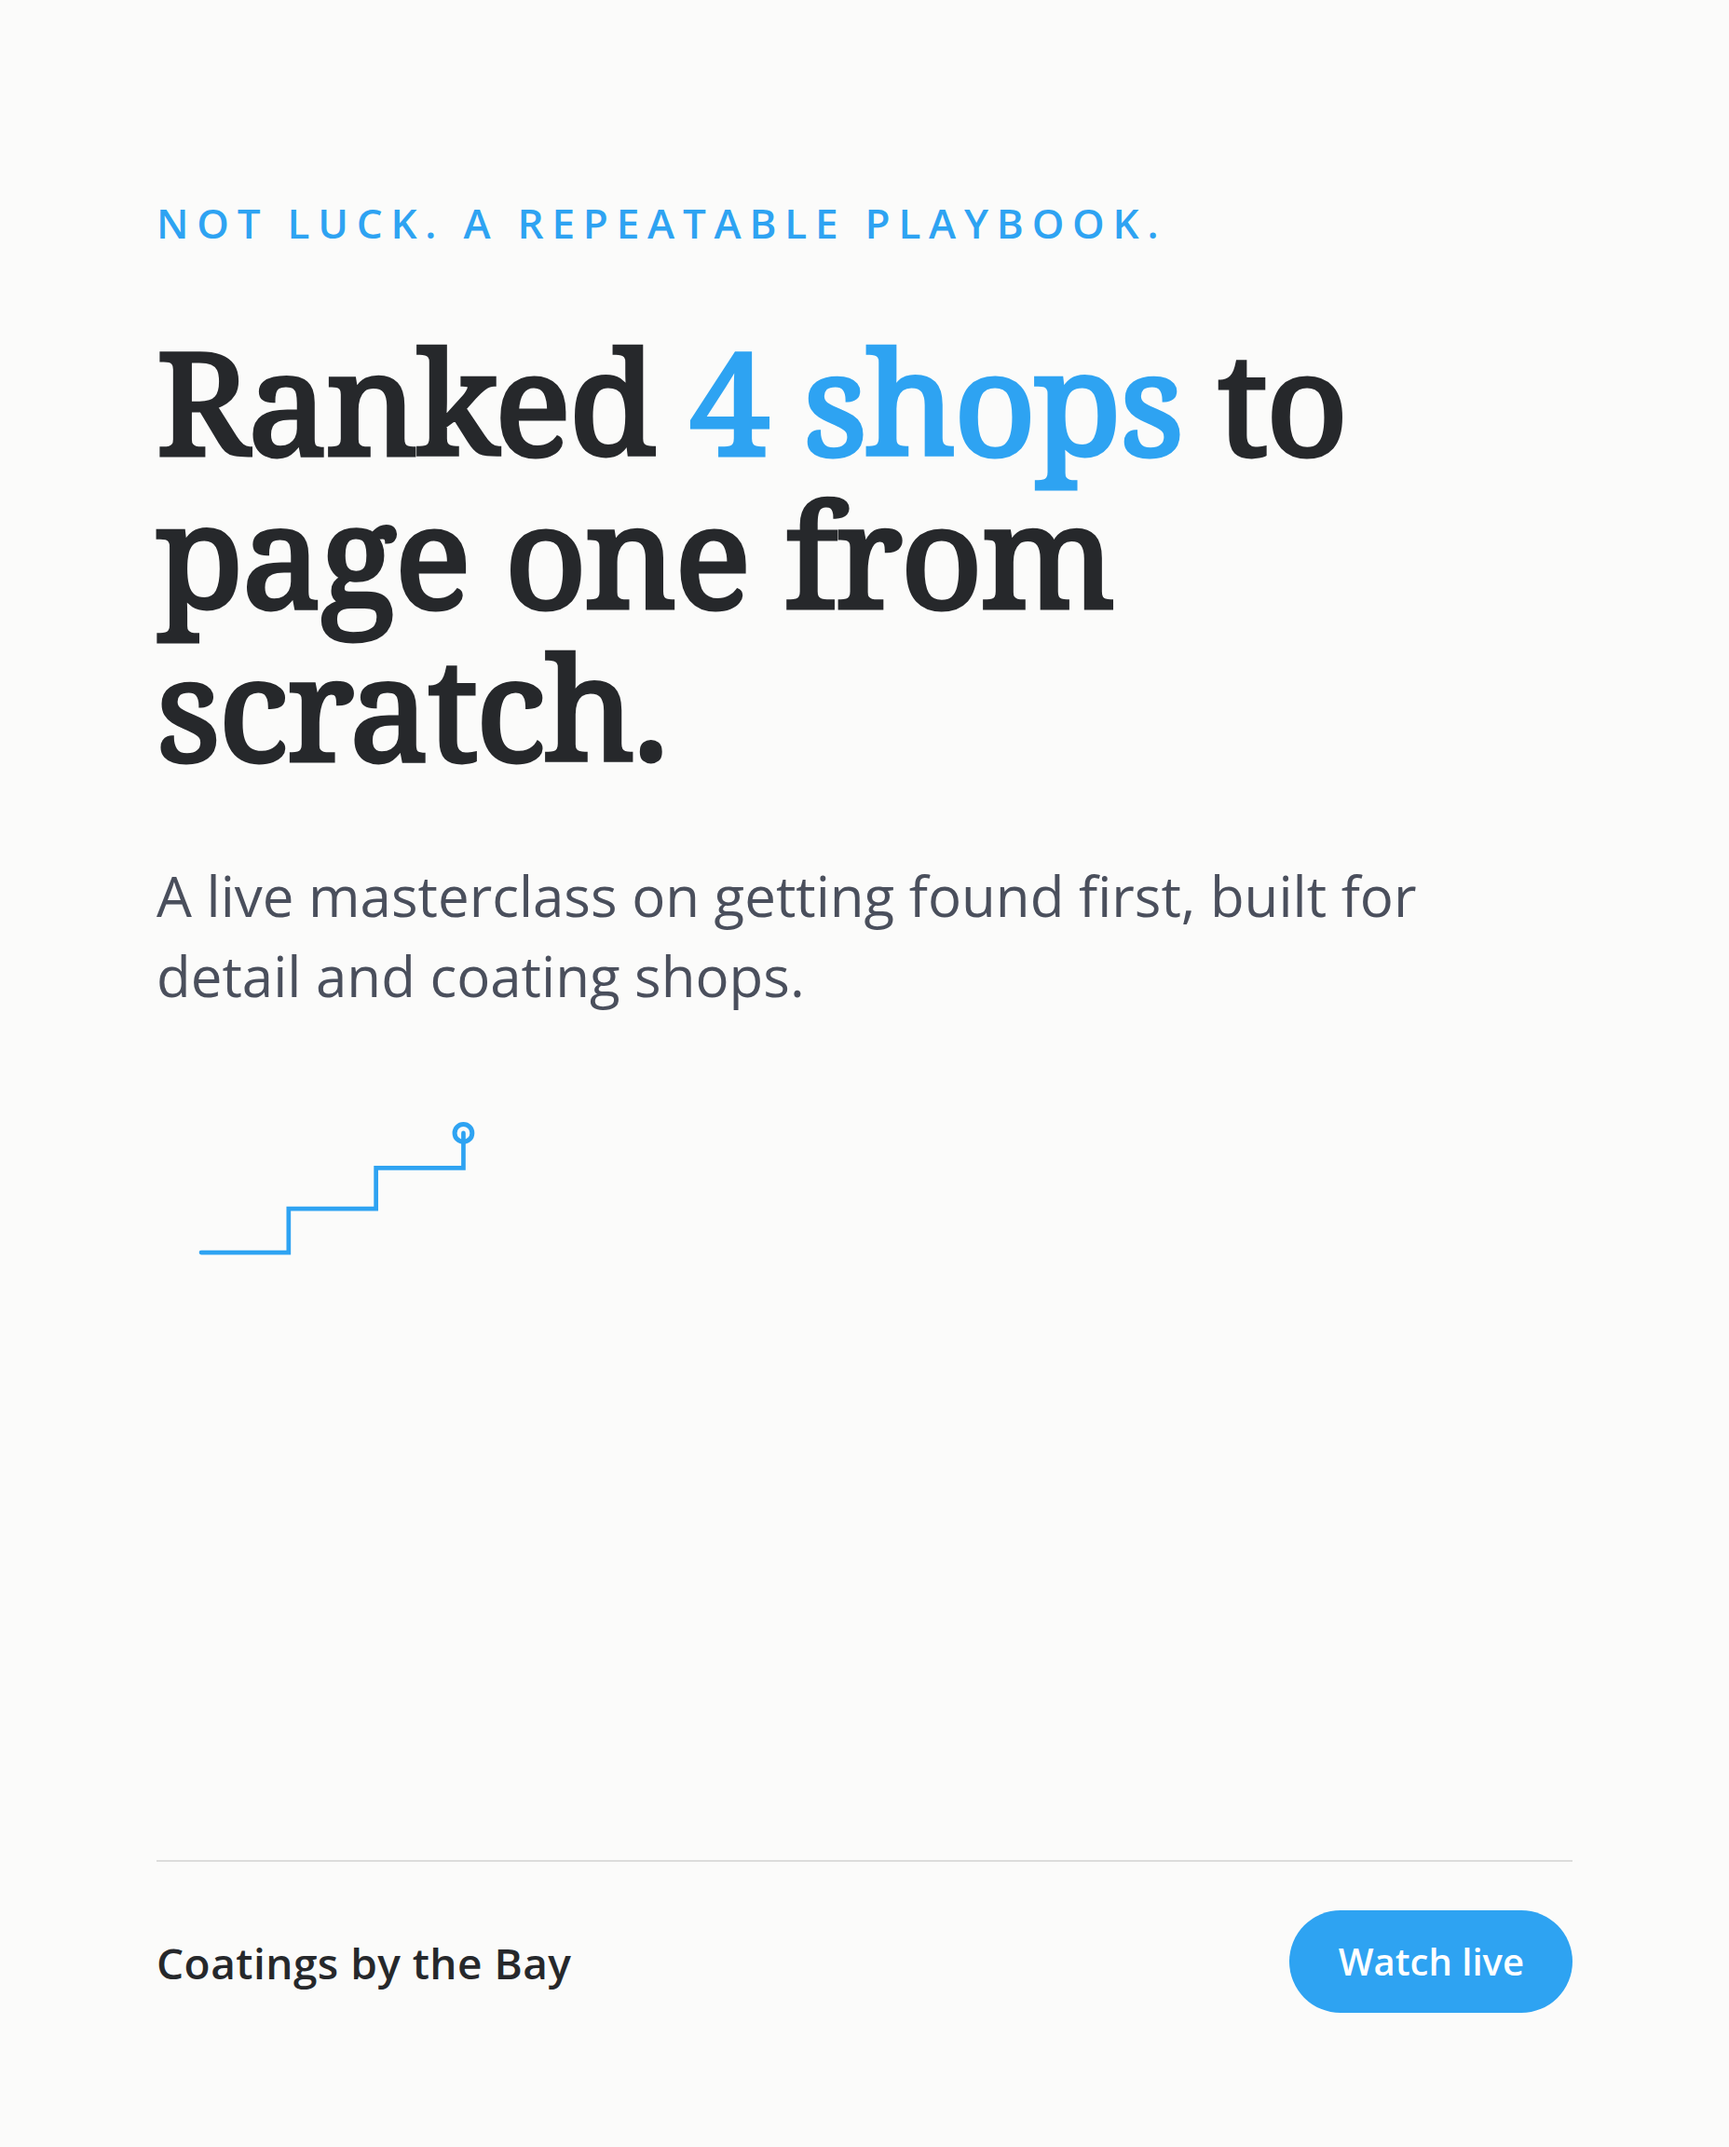
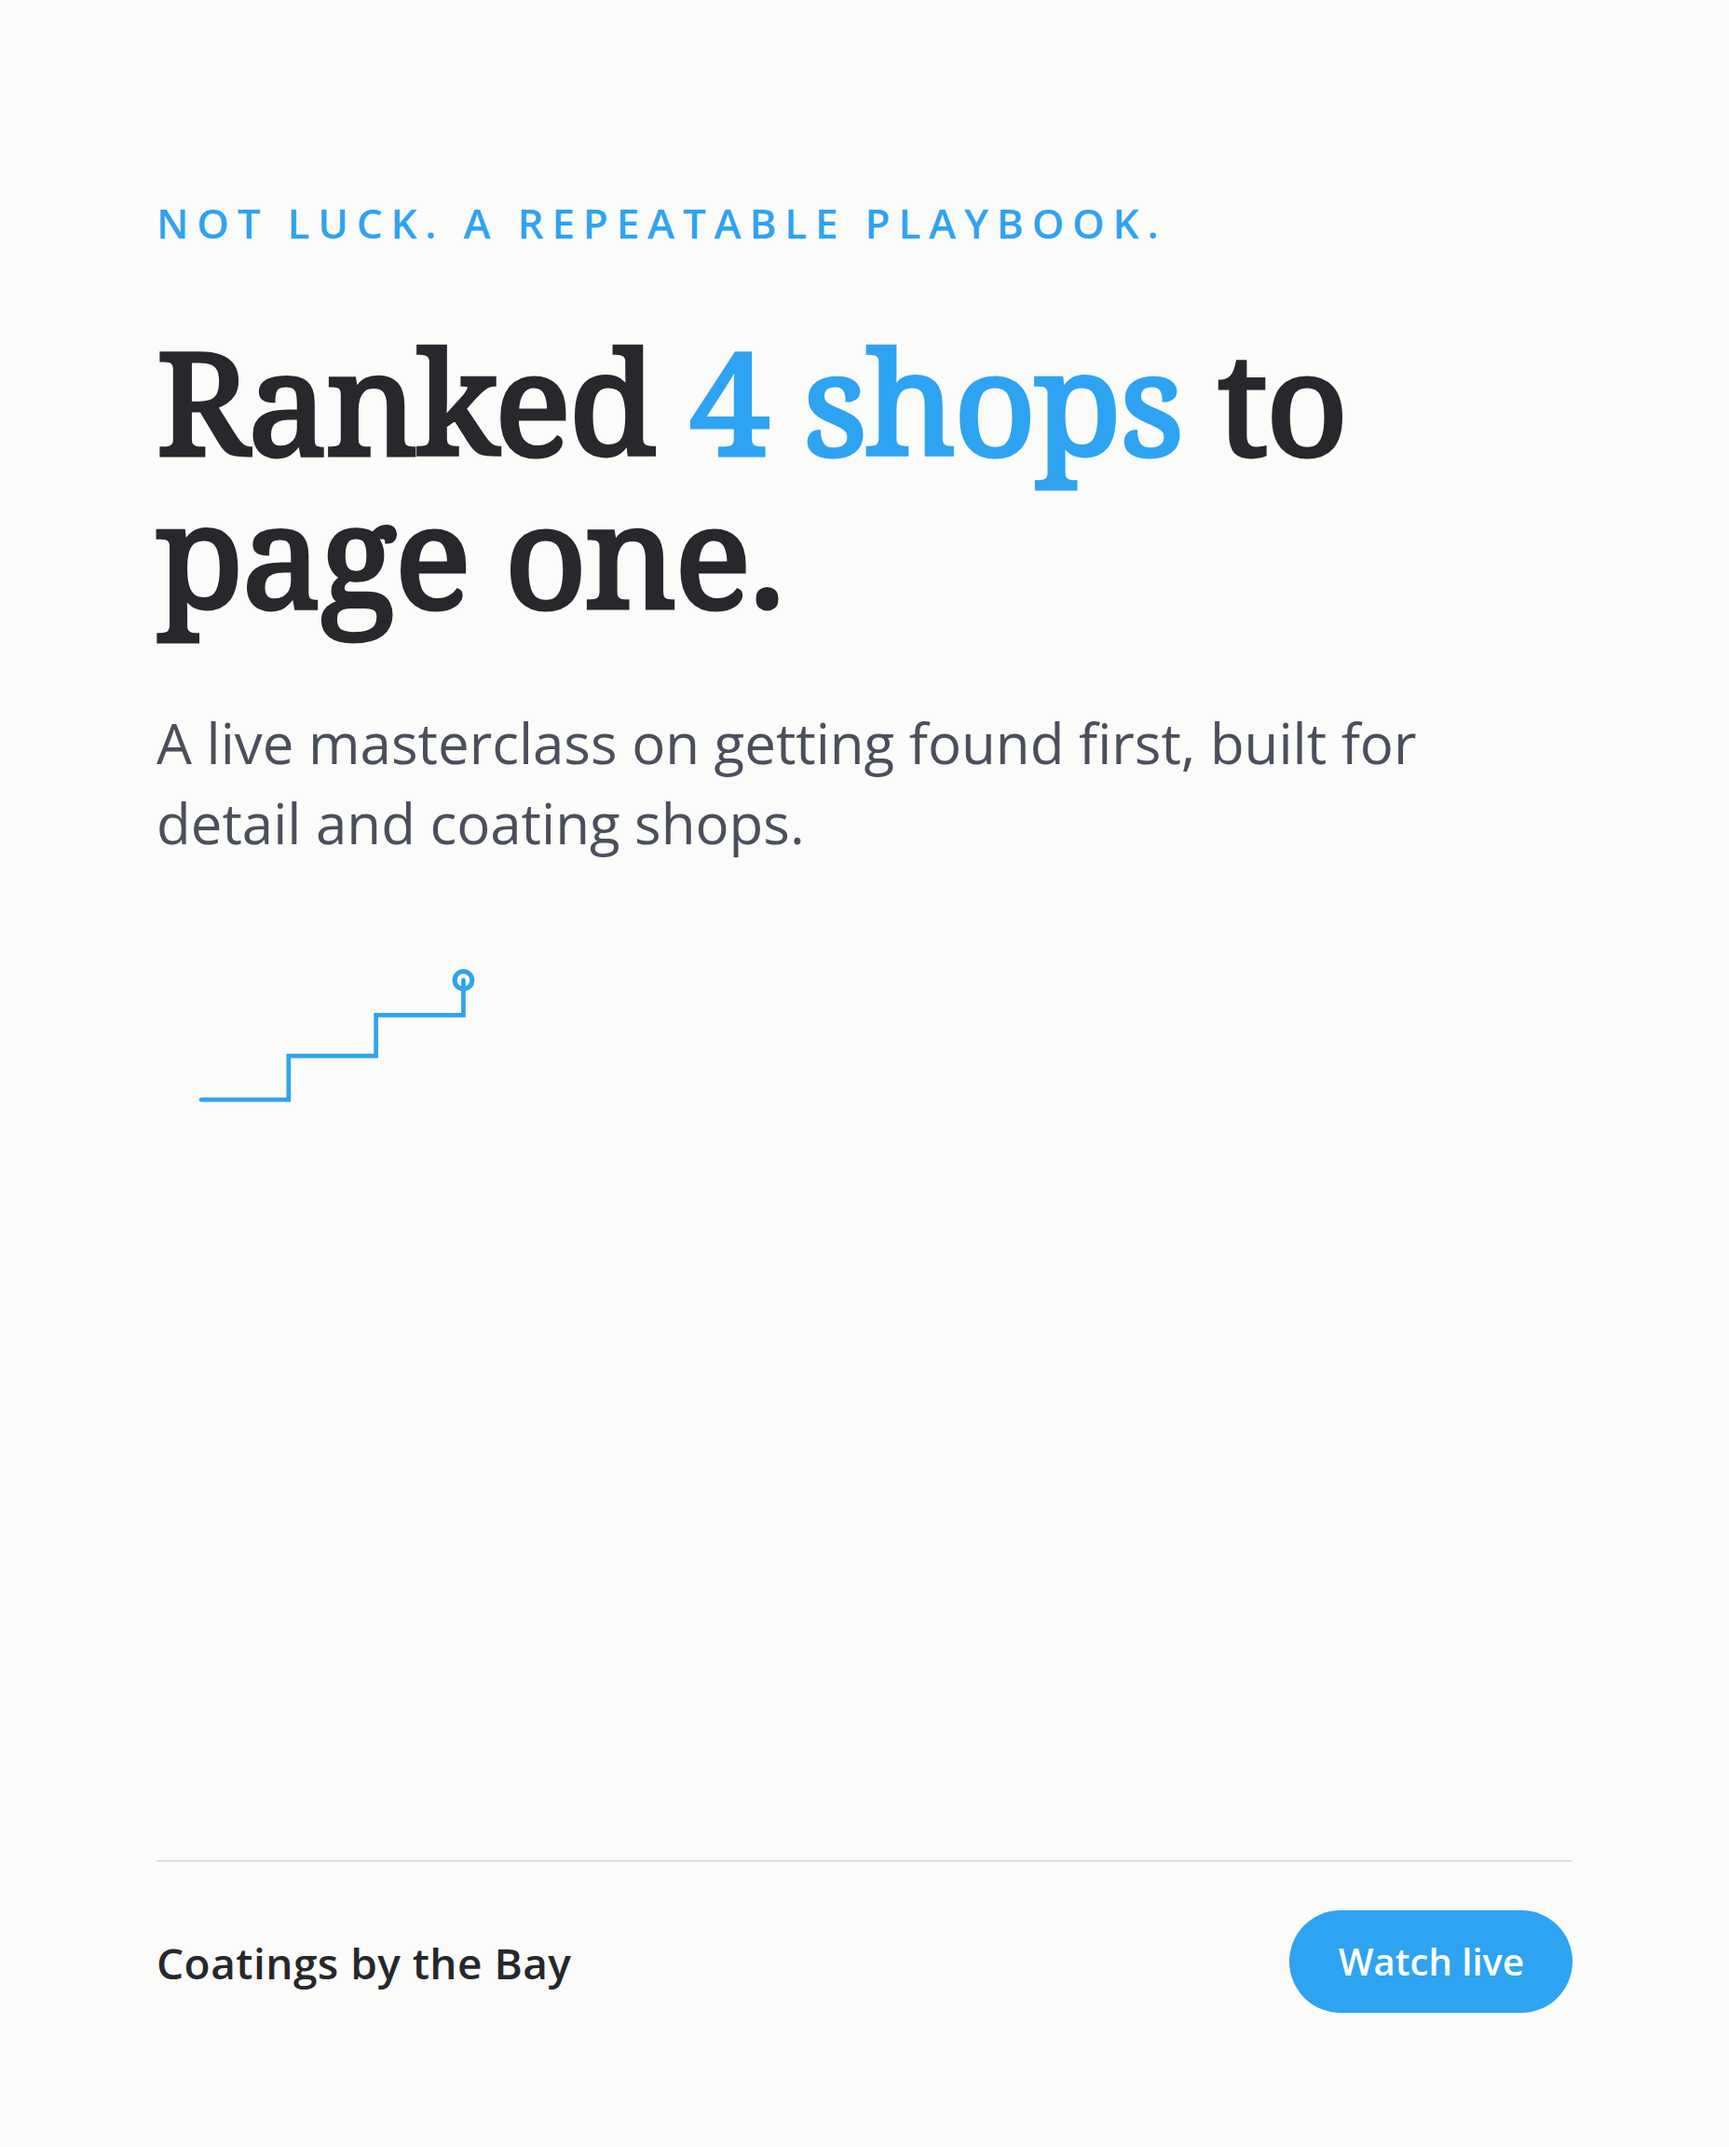
showcase: george-coatings-by-the-bay

diff --git a/george-coatings-by-the-bay/index.html b/george-coatings-by-the-bay/index.html
@@ -70,7 +70,7 @@
   </div>
 
   <h1>The Local Ranking Playbook</h1>
-  <p class="framing">Here is what I mentioned in my email: the masterclass, the numbers, and the auction data that did not fit in the message. You've already proven the hard part: ranking a ceramic-coating shop to number one organic across 700+ square miles, four different times, most recently from a cold start after moving to Wisconsin. <strong>What you don't have is a system to bring in detail and coating shop owners who have never heard of you and convert them into Diving in Deep clients. This is that system.</strong></p>
+  <p class="framing">Here is what I mentioned in my email: the masterclass, the numbers, and the auction data that did not fit in the message. You've already proven the hard part: ranking detail and coating shops to first-page Google results four different times, most recently building a brand-new Wisconsin shop to number one organic across 700+ square miles after a cold-start move from Indiana. <strong>What you don't have is a system to bring in detail and coating shop owners who have never heard of you and convert them into Diving in Deep clients. This is that system.</strong></p>
 
   <div class="section">
     <div class="section-label">The masterclass, already built</div>
@@ -94,10 +94,10 @@
         <tr><td>Masterclass viewers</td><td>13</td><td>21</td></tr>
         <tr><td>Next-step rate</td><td>7%</td><td>7%</td></tr>
         <tr><td>New Discovery Sessions / month</td><td>~1</td><td>~1-2</td></tr>
-        <tr class="hl"><td>New coaching revenue added each month</td><td>$349-$1,434</td><td>$700-$2,868</td></tr>
+        <tr class="hl"><td>New coaching revenue added each month</td><td>$349-$1,434</td><td>$349-$2,868</td></tr>
       </tbody>
     </table>
-    <p class="fn">Your own pricing is real, so this uses it directly: a single call runs $349, a 2-5 session Getting Started series runs $279 per session, and Diving in Deep, your most popular package, runs $239 across 6 or more sessions, $1,434 or more per client. One new client a month lands somewhere in that range depending on which package they choose, and one client past a single call already covers the month's spend. Every additional client stacks on top.</p>
+    <p class="fn">Your own pricing is real, so this uses it directly: a single call runs $349, a 2-5 session Getting Started series runs $279 per session ($558 to $1,395), and Diving in Deep, your most popular package, runs $239 across 6 or more sessions ($1,434 or more). One new client a month lands somewhere in that range depending on which package they choose. Two Diving in Deep clients in the same month would clear the ad spend with room left over; anything less than that is real revenue added, not a break-even claim.</p>
   </div>
 
   <div class="section">
@@ -116,7 +116,7 @@
         <tr class="you"><td>George / Coatings by the Bay</td><td>Local SEO, PPC, and lead-filtering coaching for detail and coating shops</td><td class="not-running">Nothing live, as far as I can find</td></tr>
       </tbody>
     </table>
-    <p class="fn">The names above prove detail shop owners already respond to paid social. None of them teach the specific thing you've proven four times, ranking a shop to number one organically from a cold start, and no coach doing that shows up running ads either. That lane sits open, and the one piece missing is paid traffic into the masterclass above.</p>
+    <p class="fn">The names above prove detail shop owners already spend on paid social to reach other shop owners. None of them teach the specific thing you've proven: ranking shops to page one four times, most recently taking a brand-new Wisconsin location to number one organic across 700+ square miles from a cold start. No coach teaching that shows up running ads either. That lane sits open, and the one piece missing is paid traffic into the masterclass above.</p>
   </div>
 
   <div class="section">

diff --git a/george-coatings-by-the-bay/deck.html b/george-coatings-by-the-bay/deck.html
@@ -84,13 +84,13 @@
 
 <script>
 const S = [
- {t:'title',title:'The Local Ranking Playbook',sub:'A masterclass on getting a detail or coating shop found first, from an owner who has done it four times, from a cold start.',brand:true,pin:'title'},
+ {t:'title',title:'The Local Ranking Playbook',sub:'A masterclass on getting a detail or coating shop found first, from an owner who has ranked four shops to page one, most recently a brand-new Wisconsin shop to number one organic across 700+ square miles from a cold start.',brand:true,pin:'title'},
  {t:'normal',k:'Who this is for',title:'Your work is great. Nobody can find you.',body:'You can lay down a flawless ceramic coating and still lose the month to a shop with a worse install and a better Google listing. Most owners assume the fix is another ad campaign. It usually is not.'},
  {t:'dark',title:'You do not have a detailing problem. You have a findability problem.'},
 
  {t:'section',idx:'Part One',title:'Why Most Shops Stay Invisible'},
  {t:'normal',k:'The real obstacle',title:'Google Ads before the foundation just buys a weak listing more visitors.',body:'Most shops turn on Google Ads before their Google Business Profile, on-page SEO, and site even work in their favor. Every dollar in the account covers for that gap instead of fixing it, so leads stay expensive no matter how the campaign is tuned.'},
- {t:'normal',k:'The hidden cost',title:'A weak local foundation makes every lead a tire kicker.',body:'When the listing is generic and the site does not pre-qualify anyone, every click looks the same: some ready to book, most just comparing prices. Owners burn appointment slots sorting the two apart by hand.'},
+ {t:'normal',k:'The hidden cost',title:'A weak local foundation makes it impossible to tell buyers from browsers.',body:'When the listing is generic and the site does not pre-qualify anyone, every click looks the same: some ready to book, most just comparing prices. Owners burn appointment slots sorting the two apart by hand.'},
  {t:'dark',title:'A stronger foundation is what turns visitors into booked jobs, not a bigger budget.'},
 
  {t:'section',idx:'Part Two',title:'The Local Ranking Playbook'},
@@ -98,7 +98,7 @@ const S = [
  {t:'normal',k:'Google Ads done right',title:'Google Ads should get cheaper over time, not carry the whole shop.',body:'Once the organic foundation is in place, a Google Ads account converts better and gets more efficient, because it is not fighting a weak listing anymore. It becomes an amplifier on top of what already ranks, not a crutch propping up what does not.'},
  {t:'normal',k:'Lead filtering',title:'Stop letting tire kickers eat your calendar.',body:'A simple filtering system, built into the site and the intake process, separates people ready to book from people still comparing prices, before either one takes up appointment time.'},
  {t:'normal',k:'Continuous improvement',title:'Small, constant fixes beat one big relaunch.',body:'CTAs, forms, and CRM follow-up get tuned in small steps on a regular cadence, not redone once a year. Conversion rate compounds the same way ranking does.'},
- {t:'dark',title:'Four levers. One shop ranked number one across 700 miles.'},
+ {t:'dark',title:'Four levers. One shop ranked number one across 700 square miles.'},
 
  {t:'section',idx:'Part Three',title:'Proof, Not a Pitch'},
  {t:'normal',k:'The proof',title:'Built from zero. Four times.',body:'A shop in Indiana, co-owned with his brother, built past $250K with just the two of them. Closed it, relocated to Wisconsin, and built a brand-new shop that already ranks number one organically in its market. Four different companies now, four times to page one.'},
